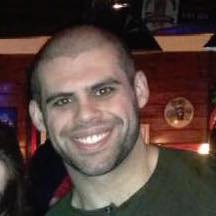
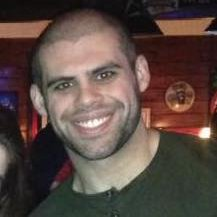
imported smaller pictures

diff --git a/app/components/HomePage/AboutUs.jsx b/app/components/HomePage/AboutUs.jsx
@@ -40,7 +40,7 @@ class WhyUseIt extends Component {
             <p>I have an insatiable appetite for building listening and learning from the talented people that surround me. I'd describe myself as hard-working, ambitious and eager to learn.</p>
           </div>
           <div className="col s12 m3">
-            <img className="circle responsive-img" src="img/aboutUs/andrew.jpg"/>
+            <img className="circle responsive-img" src="img/aboutUs/Andrew.jpg"/>
             <h5 className="about-us-names">Andrew</h5>
             <p>I began working as a software developer in part because of what I saw during my teaching experience. I saw many technological tools that teachers and students were forced to use that were inadequate at best and actively inhibiting to student progress at worst.</p>
             <p>I see technology as being one of the great equalizers in our society, and in the school I was working in, it often was not.</p>
